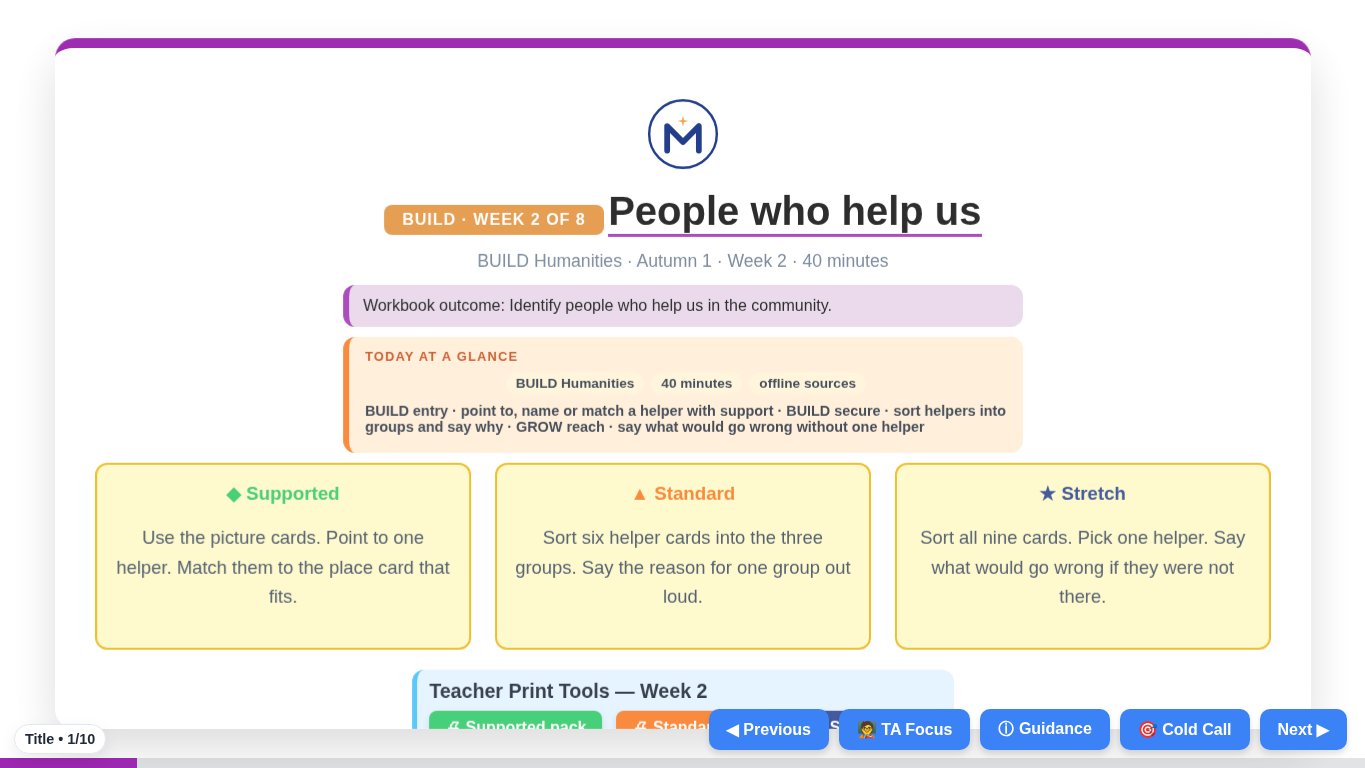
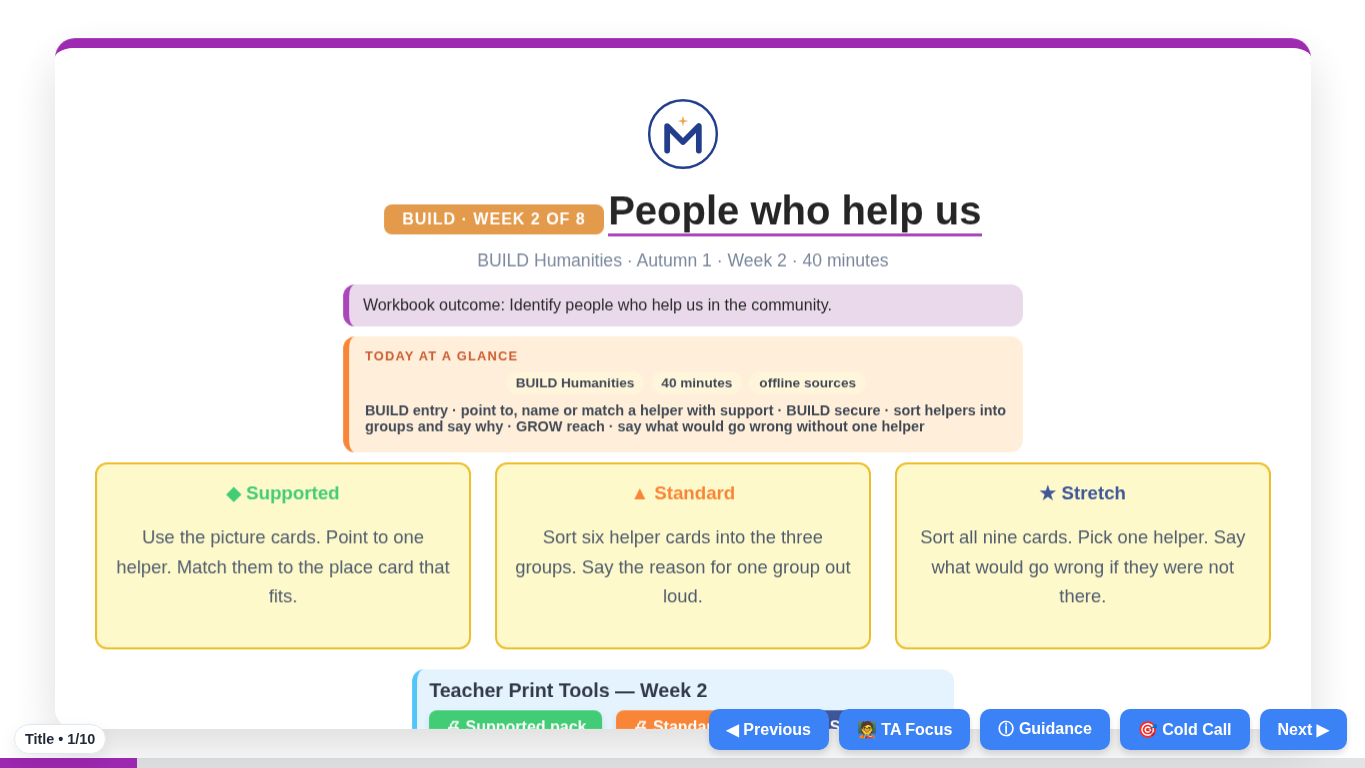
VB run 11 §3.3: the shell copy drops the donor's trailing spaces; records re-measured
Claude-Session: https://claude.ai/code/session_01XERUCWVfGPHzKpxC4VuffY

diff --git a/Humanities_Teesside/BUILD_W1-W8_2026-27/BUILD_HUM_W1_People_Special_To_Me.html b/Humanities_Teesside/BUILD_W1-W8_2026-27/BUILD_HUM_W1_People_Special_To_Me.html
@@ -26,7 +26,7 @@
     .timer-widget{display:flex;align-items:center;gap:14px;background:#1e293b;color:#fff;padding:12px 20px;border-radius:12px;margin-bottom:12px}.timer-display{font-size:2rem;font-weight:800;min-width:90px;text-align:center;color:var(--task-border)}.timer-bar-bg{flex:1;height:10px;background:rgba(255,255,255,.12);border-radius:5px;overflow:hidden}.timer-bar-fill{height:100%;background:var(--task-border);border-radius:5px;transition:width 1s linear}.timer-btns{display:flex;gap:5px}.timer-btn{padding:5px 14px;border-radius:6px;border:2px solid #fff;background:transparent;color:#fff;font-weight:700;cursor:pointer;font-size:.82rem;box-shadow:none}.timer-btn:hover{background:#fff;color:#1e293b}
     #print-area{display:none}
     @media print{body{overflow:visible;background:#fff;height:auto;color:#000}.controls,.slide-container,.progress-wrap,.progress-label,.timer-widget{display:none!important}#print-area{display:block!important;padding:20px}.print-section{display:none;page-break-after:always}.print-section.visible{display:block}.print-line{border-bottom:1px solid #000;height:22px;margin-top:8px}.ko-table{width:100%;border-collapse:collapse;margin-bottom:18px;font-size:.95rem}.ko-table th,.ko-table td{border:1px solid #000;padding:8px;text-align:left}.ko-table th{background:#eee}.scaffold-print-box{border:2px dashed #94a3b8;padding:15px;margin-bottom:20px;border-radius:8px;background:#f8fafc}.prevent-break{page-break-inside:avoid;break-inside:avoid;margin-bottom:25px}body.print-supported .standard-content,body.print-supported .stretch-content{display:none!important}body.print-standard .supported-content,body.print-standard .stretch-content{display:none!important}body.print-stretch .supported-content,body.print-stretch .standard-content{display:none!important}}
-  
+
 .tag-lundy{background:#f3e8ff;color:#6b21a8}
 .lundy-grid{display:grid;grid-template-columns:1fr 1fr;gap:14px}
 .lundy-box{background:#faf5ff;border:2px solid #a855f7;border-radius:12px;padding:12px 14px}

diff --git a/Humanities_Teesside/BUILD_W1-W8_2026-27/BUILD_HUM_W2_People_Who_Help_Us.html b/Humanities_Teesside/BUILD_W1-W8_2026-27/BUILD_HUM_W2_People_Who_Help_Us.html
@@ -26,7 +26,7 @@
     .timer-widget{display:flex;align-items:center;gap:14px;background:#1e293b;color:#fff;padding:12px 20px;border-radius:12px;margin-bottom:12px}.timer-display{font-size:2rem;font-weight:800;min-width:90px;text-align:center;color:var(--task-border)}.timer-bar-bg{flex:1;height:10px;background:rgba(255,255,255,.12);border-radius:5px;overflow:hidden}.timer-bar-fill{height:100%;background:var(--task-border);border-radius:5px;transition:width 1s linear}.timer-btns{display:flex;gap:5px}.timer-btn{padding:5px 14px;border-radius:6px;border:2px solid #fff;background:transparent;color:#fff;font-weight:700;cursor:pointer;font-size:.82rem;box-shadow:none}.timer-btn:hover{background:#fff;color:#1e293b}
     #print-area{display:none}
     @media print{body{overflow:visible;background:#fff;height:auto;color:#000}.controls,.slide-container,.progress-wrap,.progress-label,.timer-widget{display:none!important}#print-area{display:block!important;padding:20px}.print-section{display:none;page-break-after:always}.print-section.visible{display:block}.print-line{border-bottom:1px solid #000;height:22px;margin-top:8px}.ko-table{width:100%;border-collapse:collapse;margin-bottom:18px;font-size:.95rem}.ko-table th,.ko-table td{border:1px solid #000;padding:8px;text-align:left}.ko-table th{background:#eee}.scaffold-print-box{border:2px dashed #94a3b8;padding:15px;margin-bottom:20px;border-radius:8px;background:#f8fafc}.prevent-break{page-break-inside:avoid;break-inside:avoid;margin-bottom:25px}body.print-supported .standard-content,body.print-supported .stretch-content{display:none!important}body.print-standard .supported-content,body.print-standard .stretch-content{display:none!important}body.print-stretch .supported-content,body.print-stretch .standard-content{display:none!important}}
-  
+
 .tag-lundy{background:#f3e8ff;color:#6b21a8}
 .lundy-grid{display:grid;grid-template-columns:1fr 1fr;gap:14px}
 .lundy-box{background:#faf5ff;border:2px solid #a855f7;border-radius:12px;padding:12px 14px}

diff --git a/Humanities_Teesside/BUILD_W1-W8_2026-27/BUILD_HUM_W3_Places_In_My_Community.html b/Humanities_Teesside/BUILD_W1-W8_2026-27/BUILD_HUM_W3_Places_In_My_Community.html
@@ -26,7 +26,7 @@
     .timer-widget{display:flex;align-items:center;gap:14px;background:#1e293b;color:#fff;padding:12px 20px;border-radius:12px;margin-bottom:12px}.timer-display{font-size:2rem;font-weight:800;min-width:90px;text-align:center;color:var(--task-border)}.timer-bar-bg{flex:1;height:10px;background:rgba(255,255,255,.12);border-radius:5px;overflow:hidden}.timer-bar-fill{height:100%;background:var(--task-border);border-radius:5px;transition:width 1s linear}.timer-btns{display:flex;gap:5px}.timer-btn{padding:5px 14px;border-radius:6px;border:2px solid #fff;background:transparent;color:#fff;font-weight:700;cursor:pointer;font-size:.82rem;box-shadow:none}.timer-btn:hover{background:#fff;color:#1e293b}
     #print-area{display:none}
     @media print{body{overflow:visible;background:#fff;height:auto;color:#000}.controls,.slide-container,.progress-wrap,.progress-label,.timer-widget{display:none!important}#print-area{display:block!important;padding:20px}.print-section{display:none;page-break-after:always}.print-section.visible{display:block}.print-line{border-bottom:1px solid #000;height:22px;margin-top:8px}.ko-table{width:100%;border-collapse:collapse;margin-bottom:18px;font-size:.95rem}.ko-table th,.ko-table td{border:1px solid #000;padding:8px;text-align:left}.ko-table th{background:#eee}.scaffold-print-box{border:2px dashed #94a3b8;padding:15px;margin-bottom:20px;border-radius:8px;background:#f8fafc}.prevent-break{page-break-inside:avoid;break-inside:avoid;margin-bottom:25px}body.print-supported .standard-content,body.print-supported .stretch-content{display:none!important}body.print-standard .supported-content,body.print-standard .stretch-content{display:none!important}body.print-stretch .supported-content,body.print-stretch .standard-content{display:none!important}}
-  
+
 .tag-lundy{background:#f3e8ff;color:#6b21a8}
 .lundy-grid{display:grid;grid-template-columns:1fr 1fr;gap:14px}
 .lundy-box{background:#faf5ff;border:2px solid #a855f7;border-radius:12px;padding:12px 14px}

diff --git a/_sownb/vb/tools/reshell_classic_v2.py b/_sownb/vb/tools/reshell_classic_v2.py
@@ -233,6 +233,7 @@ function wedoReset(b){var s=b.closest('.slide');s.querySelectorAll('.wedo-reveal
 <script id="lesson-config" type="application/json">''' + json.dumps({**cfg, 'chassis': 'classic-v2', 'reshelledFrom': src_path, 'contractScope': 'v2'}, ensure_ascii=False) + '</script>\n</body>', 1)
 slides_html = ''.join([title_slide, arrival, starter, ido, wedo, ido2, wedo2, independent, lundy_slide, exit_slide])
 out = head + '<body> <main id="lessonDeck" class="deck"><div class="slide-container">' + slides_html + '</div></main>' + body_end.replace('%%PRINT%%', print_area, 1)
+out = '\n'.join(l.rstrip() for l in out.split('\n'))  # the donor carries trailing spaces; the shell copy does not
 (ROOT/out_path).write_text(out, encoding='utf-8')
 if '--json' in sys.argv:
     json.dump({'file': out_path, 'from': src_path, 'donor': donor_path, 'family': family, 'trace': TRACE}, open(sys.argv[sys.argv.index('--json') + 1], 'w'), indent=1, ensure_ascii=False)

diff --git a/_sownb/vb/REVIEW_RUN11.md b/_sownb/vb/REVIEW_RUN11.md
@@ -97,4 +97,3 @@ Each screen below is the title slide at 390 px wide, taken by the proof script; 
 - No trims: none of the six D-E overload decks is among these eight.
 - g10 reds on the house heading labels of the classic chassis ("Arrival Task", "Independent Work") and on title fragments; every candidate was inspected and none is a person (`evidence/run11/G10_CLASSIC_HOUSE_LABELS.json`). Ruling wanted: a HOUSE_LABELS register like PLACES.md.
 - The n6-shaped FEB gates (g18, g11, s24, running heads, g21, rig, g23, g25) cannot parse a classic deck; recorded as measured, not applicable (`evidence/run11/FEB_GATES_ON_CLASSIC.json`).
-

diff --git a/_sownb/vb/TRACE_RUN11.md b/_sownb/vb/TRACE_RUN11.md
@@ -145,4 +145,3 @@ donor shell: `Grow/Slideshows/GROW_HUM_W8_Where_In_The_World.html` · words 1956
 | Independent Work ×3 print sheets | the n6 print pack's route line, record table and learner confirmation for each tier plus that tier's Independent route text, verbatim; differentiation is the route text itself |
 | Lundy Loop print section | the deck's own strip sentence and word-bridge lines, verbatim |
 | Feedback sheet | the classic donor's blank feedback template, retitled; no lesson words |
-
